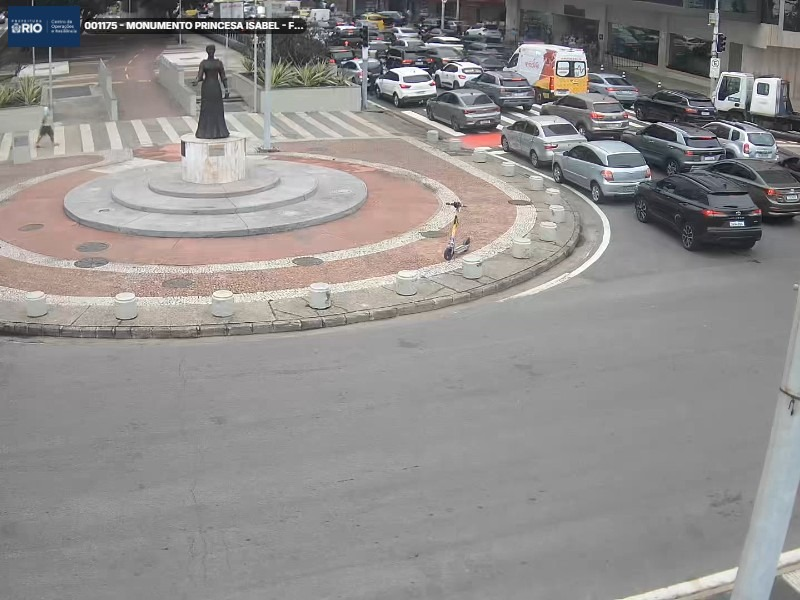
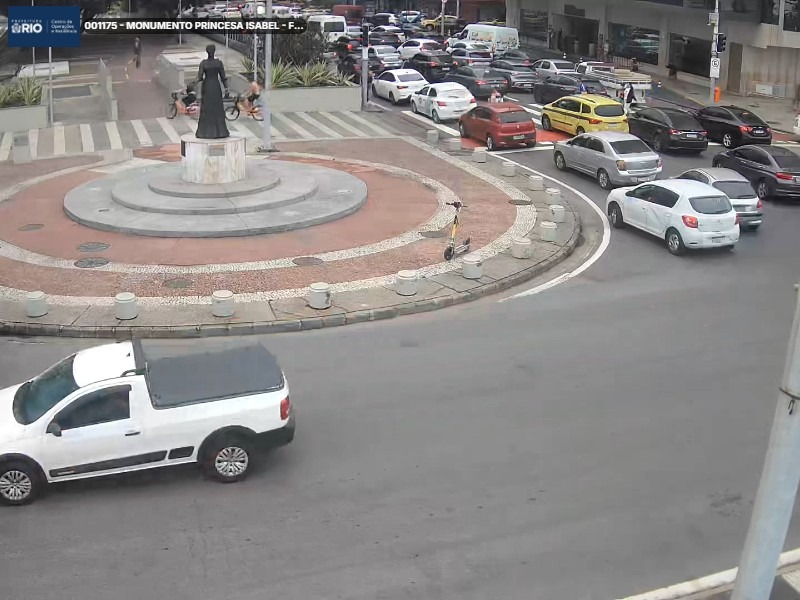
chore: update monument data and remove outdated images from assets

diff --git a/backend/app/config.py b/backend/app/config.py
@@ -186,22 +186,23 @@ PATRIMONIOS = [
     #            "aponta pro monumento. Candidatas ainda não testadas: 001219, 001220, 001229, 001230, "
     #            "001233, 001234, 006141 (mesmo cruzamento Av. Atlântica x Ponta do Leme).",
     # },
-    {
-        "id": 8,
-        "nome": "Relógio da Glória",
-        "descricao": "Relógio da Glória — monumento histórico de 1905, Rua da Glória, 290",
-        "bairro": "Glória",
-        "endereco": "R. da Glória - Glória, Rio de Janeiro - RJ, 20241-190",
-        "categoria": "Patrimônio Histórico",
-        "emoji": "🕰",
-        "latitude": -22.920482,
-        "longitude": -43.177031,
-        "camera_codes": ["000315", "005534"],
-        "obs": "Endereço corrigido (12/08) — cadastro antigo tinha bairro/endereço errados (Alto da Boa "
-               "Vista não faz sentido pra esse monumento). Testando 000315 ('R. DA GLÓRIA X R. BENJAMIM "
-               "CONSTANT') e 005534 ('R. DA GLÓRIA, 148'), as câmeras mais próximas do nº 290 onde fica "
-               "o relógio — ainda não confirmadas visualmente.",
-    },
+    # Desativado (12/08) — 000315 e 005534 testadas e removidas, mostram rua/trânsito, sem o relógio no quadro.
+    # {
+    #     "id": 8,
+    #     "nome": "Relógio da Glória",
+    #     "descricao": "Relógio da Glória — monumento histórico de 1905, Rua da Glória, 290",
+    #     "bairro": "Glória",
+    #     "endereco": "R. da Glória - Glória, Rio de Janeiro - RJ, 20241-190",
+    #     "categoria": "Patrimônio Histórico",
+    #     "emoji": "🕰",
+    #     "latitude": -22.920482,
+    #     "longitude": -43.177031,
+    #     "camera_codes": [],
+    #     "obs": "Endereço corrigido (12/08) — cadastro antigo tinha bairro/endereço errados (Alto da Boa "
+    #            "Vista não faz sentido pra esse monumento). 000315 e 005534 testadas e removidas (rua/ "
+    #            "trânsito, sem o relógio no quadro). Candidatas ainda não testadas: 005531/005532 (R. da "
+    #            "Glória, 58), 005533 (Chafariz da Glória, mesma rua).",
+    # },
     {
         "id": 11,
         "nome": "Carlos Drummond de Andrade",
